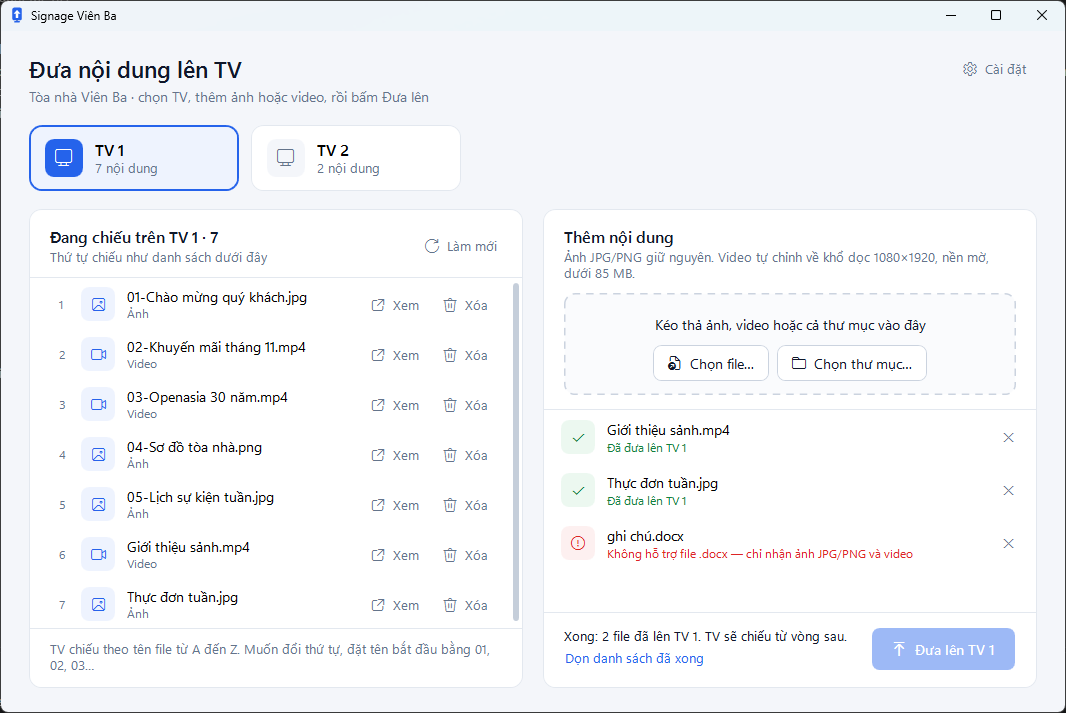
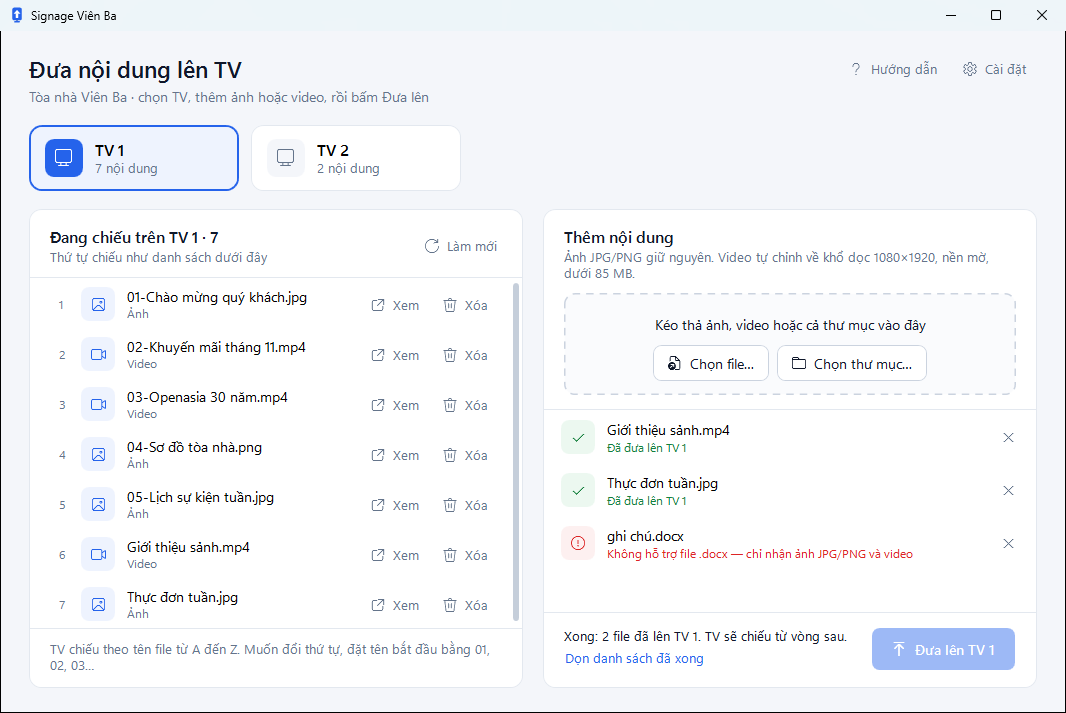
Signage Viên Ba 1.0.1: user guide button in the app
- "Hướng dẫn" button next to "Cài đặt" (and F1) opens HuongDan.html beside
  the exe in the default browser; SIGNAGE_GUIDE overrides the path.
- build.ps1 builds HuongDan.html with build/make-guide.py: docs/ without
  the IT pages (quan-tri/), since the installer is public.
- Guide: new IT page "Chuyển sang phần mềm mới" (disable the old OneDrive
  sync, install per user, test with one image, remove .tmp leftovers),
  screenshots with the new button, version 1.0.1.
- build.ps1: ffmpeg source moved to C:\Claude\CaNhan\IDM.

diff --git a/src/SignageVienBa.App/MainWindow.xaml b/src/SignageVienBa.App/MainWindow.xaml
@@ -6,7 +6,7 @@
         WindowStartupLocation="CenterScreen" Style="{StaticResource BaseWindow}"
         AllowDrop="True" PreviewDragEnter="Window_DragEnter" PreviewDragOver="Window_DragOver"
         PreviewDragLeave="Window_DragLeave" PreviewDrop="Window_Drop"
-        ContentRendered="Window_ContentRendered" Closing="Window_Closing">
+        ContentRendered="Window_ContentRendered" Closing="Window_Closing" PreviewKeyDown="Window_PreviewKeyDown">
   <Window.Resources>
     <BooleanToVisibilityConverter x:Key="BoolToVis"/>
   </Window.Resources>
@@ -48,6 +48,8 @@
     <DockPanel>
       <Button DockPanel.Dock="Right" Style="{StaticResource GhostButton}" Tag="&#xE713;" Content="Cài đặt"
               VerticalAlignment="Top" Click="Settings_Click"/>
+      <Button x:Name="GuideButton" DockPanel.Dock="Right" Style="{StaticResource GhostButton}" Tag="&#xE897;" Content="Hướng dẫn"
+              VerticalAlignment="Top" Margin="0,0,4,0" Click="Guide_Click" ToolTip="Mở hướng dẫn sử dụng (F1)"/>
       <StackPanel>
         <TextBlock Text="Đưa nội dung lên TV" FontSize="23" FontWeight="SemiBold"/>
         <TextBlock Style="{StaticResource Muted}" FontSize="13.5" Margin="0,3,0,0"

diff --git a/build/make-guide.py b/build/make-guide.py
@@ -1,0 +1,74 @@
+"""Builds the in-app user guide: docs/ without the IT pages (docs/quan-tri/) into one offline HTML file.
+
+The installer is public on GitHub Releases, so the IT pages stay out of it. They are only in the
+full guide: python <guidebook.py> build docs  ->  docs/_site/index.html
+
+    python build/make-guide.py <path to guidebook.py> <out.html>
+
+guidebook.py is the "guidebook" Claude skill (~/.claude/skills/guidebook/scripts/guidebook.py).
+Exits non-zero if the user edition has a broken link, a leftover link to an IT page, or any other
+error reported by the guidebook checker.
+"""
+import json
+import re
+import shutil
+import subprocess
+import sys
+import tempfile
+from pathlib import Path
+
+DOCS = Path(__file__).resolve().parent.parent / "docs"
+ADMIN = "quan-tri"
+SUBTITLE = "Cho người đưa nội dung lên TV"
+ADMIN_LINK = re.compile(r"\[([^\]]+)\]\((?:\.\./)?" + ADMIN + r"/[^)]*\)")
+ADMIN_CARD = re.compile(r"[ \t]*<tr>(?:(?!</tr>).)*?" + ADMIN + r"/.*?</tr>[ \t]*\r?\n", re.S)
+EMPTY_SECTION = re.compile(r"^## [^\n]*\n(?:[ \t]*\n)*(?=^## |\Z)", re.M)
+
+
+def read(p: Path) -> str:
+    return p.read_text(encoding="utf-8")
+
+
+def write(p: Path, text: str) -> None:
+    p.write_text(text, encoding="utf-8", newline="")
+
+
+def make_user_edition(book: Path) -> None:
+    shutil.copytree(DOCS, book, ignore=shutil.ignore_patterns("_site", ADMIN))
+
+    summary = book / "SUMMARY.md"
+    lines = read(summary).replace("\r\n", "\n").split("\n")
+    write(summary, EMPTY_SECTION.sub("", "\n".join(l for l in lines if ADMIN + "/" not in l)))
+
+    readme = book / "README.md"
+    write(readme, ADMIN_CARD.sub("", read(readme)))
+
+    for page in book.rglob("*.md"):
+        text = read(page)
+        stripped = ADMIN_LINK.sub(r"\1", text)
+        if stripped != text:
+            write(page, stripped)
+        if ADMIN + "/" in stripped:
+            sys.exit(f"{page.relative_to(book)} still points to {ADMIN}/ after filtering")
+
+    meta_path = book / "guidebook.json"
+    meta = json.loads(read(meta_path))
+    meta["subtitle"] = SUBTITLE
+    write(meta_path, json.dumps(meta, ensure_ascii=False, indent=2) + "\n")
+
+
+def main() -> int:
+    if len(sys.argv) != 3:
+        sys.exit(__doc__)
+    guidebook, out = Path(sys.argv[1]), Path(sys.argv[2]).resolve()
+    if not guidebook.is_file():
+        sys.exit(f"guidebook.py not found: {guidebook}")
+    with tempfile.TemporaryDirectory() as tmp:
+        book = Path(tmp) / "docs"
+        make_user_edition(book)
+        out.parent.mkdir(parents=True, exist_ok=True)
+        return subprocess.call([sys.executable, str(guidebook), "build", str(book), "--out", str(out)])
+
+
+if __name__ == "__main__":
+    sys.exit(main())

diff --git a/src/SignageVienBa.App/MainWindow.xaml.cs b/src/SignageVienBa.App/MainWindow.xaml.cs
@@ -219,6 +219,38 @@ public partial class MainWindow : Window, INotifyPropertyChanged
         Update.Hide();
     }
 
+    // The user guide (docs\, user pages only) is built into HuongDan.html next to the exe by build.ps1.
+    internal static string GuidePath =>
+        Environment.GetEnvironmentVariable("SIGNAGE_GUIDE") is { Length: > 0 } custom
+            ? custom
+            : Path.Combine(AppContext.BaseDirectory, "HuongDan.html");
+
+    private void Guide_Click(object sender, RoutedEventArgs e) => OpenGuide();
+
+    private void Window_PreviewKeyDown(object sender, System.Windows.Input.KeyEventArgs e)
+    {
+        if (e.Key != System.Windows.Input.Key.F1) return;
+        e.Handled = true;
+        OpenGuide();
+    }
+
+    private void OpenGuide()
+    {
+        var path = GuidePath;
+        if (!File.Exists(path))
+        {
+            MessageBox.Show(this, "Không tìm thấy file hướng dẫn. Hãy cài lại phần mềm bằng bộ cài mới nhất.",
+                "Signage Viên Ba", MessageBoxButton.OK, MessageBoxImage.Warning);
+            return;
+        }
+        try { Process.Start(new ProcessStartInfo(path) { UseShellExecute = true }); }
+        catch (Exception ex) when (ex is Win32Exception or InvalidOperationException)
+        {
+            MessageBox.Show(this, "Không mở được hướng dẫn: " + ex.Message, "Signage Viên Ba",
+                MessageBoxButton.OK, MessageBoxImage.Warning);
+        }
+    }
+
     private void Window_Closing(object? sender, CancelEventArgs e)
     {
         if (!_busy) return;

diff --git a/docs/quan-tri/chuyen-sang-phan-mem-moi.md b/docs/quan-tri/chuyen-sang-phan-mem-moi.md
@@ -1,0 +1,110 @@
+---
+description: Tắt lịch đồng bộ OneDrive cũ, cài phần mềm cho người đưa nội dung lên TV, thử với một ảnh và dọn file nén dở còn sót trên TV.
+---
+
+# Chuyển sang phần mềm mới
+
+**Ai làm:** bộ phận IT · **Khi nào:** một lần, trước khi người dùng bắt đầu dùng phần mềm · **Mất khoảng:** 20 phút
+
+{% hint style="info" %}
+**Trước khi bắt đầu:** chuẩn bị **mã API** (xem [Mã API](ma-api.md)) và ngồi được vào máy đang chạy script đồng bộ cũ, tức là máy có thư mục OneDrive `Signage-VienBa`.
+{% endhint %}
+
+{% stepper %}
+{% step %}
+### Tắt lịch đồng bộ cũ
+
+Script cũ `sync-to-cloudflare-final.ps1` xóa trên TV mọi file không có trong thư mục OneDrive. Nếu còn chạy, nó xóa luôn những gì người dùng đưa lên bằng phần mềm.
+
+1. Trên máy chạy script cũ, nhấn `Win`, gõ `Task Scheduler` rồi mở **Task Scheduler**.
+2. Ở cột trái, bấm **Task Scheduler Library**.
+3. Bấm lần lượt từng tác vụ trong danh sách giữa, mở thẻ **Actions** bên dưới. Tác vụ cần tắt có cột **Details** chứa `sync-to-cloudflare-final.ps1`. Thường mỗi màn hình có một tác vụ riêng.
+4. Bấm chuột phải vào tác vụ đó, chọn **Disable**. Cột **Status** đổi thành **Disabled**. Làm tương tự với mọi tác vụ tìm thấy.
+
+Tắt (**Disable**) thay vì xóa, để còn bật lại được nếu cần quay về cách cũ.
+
+<details>
+
+<summary>Tìm và tắt bằng PowerShell</summary>
+
+Mở **Windows PowerShell** trên máy chạy script cũ. Lệnh sau liệt kê mọi tác vụ chạy script đồng bộ cũ, kể cả tác vụ nằm trong thư mục con:
+
+```powershell
+Get-ScheduledTask | Where-Object { "$($_.Actions.Execute) $($_.Actions.Arguments)" -like '*sync-to-cloudflare*' } |
+  Select-Object TaskPath, TaskName, State
+```
+
+Thấy đúng các tác vụ cần tắt thì chạy lệnh sau. Cột **State** của chúng chuyển thành `Disabled`.
+
+```powershell
+Get-ScheduledTask | Where-Object { "$($_.Actions.Execute) $($_.Actions.Arguments)" -like '*sync-to-cloudflare*' } |
+  Disable-ScheduledTask
+```
+
+</details>
+{% endstep %}
+
+{% step %}
+### Cài phần mềm cho người dùng
+
+Trên máy của người sẽ đưa nội dung lên TV, đăng nhập bằng tài khoản Windows của chính người đó, rồi làm theo [Cài đặt](../bat-dau/cai-dat.md) đến hết bước **Nhập mã API**.
+
+Phần mềm cài riêng cho từng tài khoản Windows, và mã API được mã hóa theo tài khoản đó. Cài bằng tài khoản IT thì người dùng sẽ không thấy phần mềm.
+{% endstep %}
+
+{% step %}
+### Thử với một ảnh
+
+1. Trong phần mềm, bấm **TV 1**, kéo một ảnh JPG vào cửa sổ, rồi bấm **Đưa lên TV 1 (1 file)**. Ảnh hiện trong danh sách **Đang chiếu trên TV 1**.
+2. Nhìn TV 1. Ảnh hiện ra sau khi TV chiếu hết vòng hiện tại.
+3. Bấm **Xóa** ở dòng của ảnh thử, rồi bấm **Yes** (Windows tiếng Việt: **Có**) để gỡ ảnh khỏi TV.
+{% endstep %}
+
+{% step %}
+### Dọn file nén dở còn sót
+
+Script nén video cũ ghi ra một file tạm có `.tmp` trong tên, và script đồng bộ đôi khi đưa luôn file đang nén dở đó lên TV. File như vậy có thể chiếu lỗi hoặc làm TV đứng hình.
+
+1. Bấm **TV 1**, xem danh sách **Đang chiếu trên TV 1**. Tìm dòng có `.tmp` trong tên, ví dụ `video/TVNews09.tmp.mp4` (đang có trên TV 2).
+2. Bấm **Xóa** ở dòng đó rồi bấm **Yes**. Bản đầy đủ cùng tên, không có `.tmp`, vẫn ở lại.
+3. Bấm **TV 2** và làm tương tự.
+{% endstep %}
+{% endstepper %}
+
+{% hint style="success" %}
+**Kết quả:** từ giờ người dùng đưa nội dung lên TV bằng phần mềm. Thư mục OneDrive `Signage-VienBa` không còn được dùng: bỏ file vào đó sẽ không lên TV nữa, hãy báo người dùng điều này. Nội dung đang chiếu từ hệ thống cũ vẫn ở trên TV và xóa được trong phần mềm.
+{% endhint %}
+
+Gửi người dùng bộ hướng dẫn này, bắt đầu từ trang [Bắt đầu nhanh](../bat-dau/bat-dau-nhanh.md).
+
+## Lỗi thường gặp
+
+<details>
+
+<summary>Ảnh, video vừa đưa lên tự biến mất khỏi TV sau một lúc</summary>
+
+**Nguyên nhân:** vẫn còn một lịch đồng bộ cũ đang chạy, có thể trên một máy khác cũng có thư mục OneDrive `Signage-VienBa`.
+
+**Cách khắc phục:** làm lại bước **Tắt lịch đồng bộ cũ** trên mọi máy từng cài script cũ, rồi đưa lại file bị mất.
+
+</details>
+
+<details>
+
+<summary>Access is denied khi tắt tác vụ</summary>
+
+**Nguyên nhân:** tác vụ được tạo bằng tài khoản quản trị, hoặc đặt chạy với quyền cao nhất.
+
+**Cách khắc phục:** bấm chuột phải vào **Task Scheduler** hoặc **Windows PowerShell**, chọn **Run as administrator**, rồi tắt lại.
+
+</details>
+
+<details>
+
+<summary>Không thấy tác vụ nào chạy sync-to-cloudflare-final.ps1</summary>
+
+**Nguyên nhân:** tác vụ nằm trong thư mục con của **Task Scheduler Library**, hoặc chạy trên một máy khác.
+
+**Cách khắc phục:** dùng lệnh PowerShell ở bước 1, lệnh này tìm cả trong thư mục con. Vẫn không thấy thì kiểm tra các máy khác có thư mục OneDrive `Signage-VienBa`.
+
+</details>

diff --git a/docs/bat-dau/lam-quen-giao-dien.md b/docs/bat-dau/lam-quen-giao-dien.md
@@ -10,7 +10,7 @@ Phần mềm chỉ có một cửa sổ chính. Phía trên là nơi chọn TV, 
 
 | Số | Vùng | Dùng để |
 | --- | --- | --- |
-| 1 | **Cài đặt** | Nhập mã API, kiểm tra kết nối, xem phiên bản và kiểm tra bản mới. |
+| 1 | **Hướng dẫn**, **Cài đặt** | **Hướng dẫn** (hoặc nhấn `F1`) mở hướng dẫn này trong trình duyệt, không cần mạng. **Cài đặt** để nhập mã API, kiểm tra kết nối, xem phiên bản và kiểm tra bản mới. |
 | 2 | **TV 1**, **TV 2** | Chọn TV cần làm việc. Dòng nhỏ bên dưới cho biết TV đó đang chiếu bao nhiêu nội dung. |
 | 3 | **Đang chiếu trên TV 1** | Nội dung TV đang chiếu, theo đúng thứ tự chiếu. Mỗi dòng có **Xem** và **Xóa**. Bấm **Làm mới** để tải lại danh sách. |
 | 4 | Khung kéo thả | Thả ảnh, video hoặc thư mục vào đây, hoặc bấm **Chọn file…**, **Chọn thư mục…**. |

diff --git a/docs/tham-khao/xu-ly-su-co.md b/docs/tham-khao/xu-ly-su-co.md
@@ -174,6 +174,18 @@ Xem phần lỗi trong [Cập nhật phần mềm](../su-dung/cap-nhat-phan-mem.
 
 </details>
 
+## Hướng dẫn
+
+<details>
+
+<summary>Không tìm thấy file hướng dẫn. Hãy cài lại phần mềm bằng bộ cài mới nhất.</summary>
+
+**Nguyên nhân:** file `HuongDan.html` trong thư mục cài đặt bị xóa, thường do phần mềm diệt virus hoặc xóa nhầm.
+
+**Cách khắc phục:** chạy bộ cài mới nhất, xem [Cài đặt](../bat-dau/cai-dat.md). Mã API đã lưu được giữ nguyên.
+
+</details>
+
 ## Gửi báo lỗi
 
 Nếu các cách trên không được, hoặc gặp hộp **Có lỗi không mong muốn**, gửi cho bộ phận IT:

diff --git a/CHANGELOG.md b/CHANGELOG.md
@@ -2,6 +2,9 @@
 
 Mỗi phiên bản là một mục `## <phiên bản>`, mỗi thay đổi một dòng. `build\publish.ps1` lấy đúng mục của phiên bản đang phát hành làm ghi chú cho bản cập nhật.
 
+## 1.0.1
+- Nút Hướng dẫn ở góc trên cửa sổ (hoặc nhấn F1) mở hướng dẫn sử dụng ngay trên máy, không cần mạng.
+
 ## 1.0.0
 - Bản đầu tiên: chọn TV 1 hoặc TV 2 rồi đưa ảnh, video lên bằng một nút bấm.
 - Kéo thả ảnh, video hoặc cả thư mục vào cửa sổ, hoặc bấm Chọn file / Chọn thư mục.
